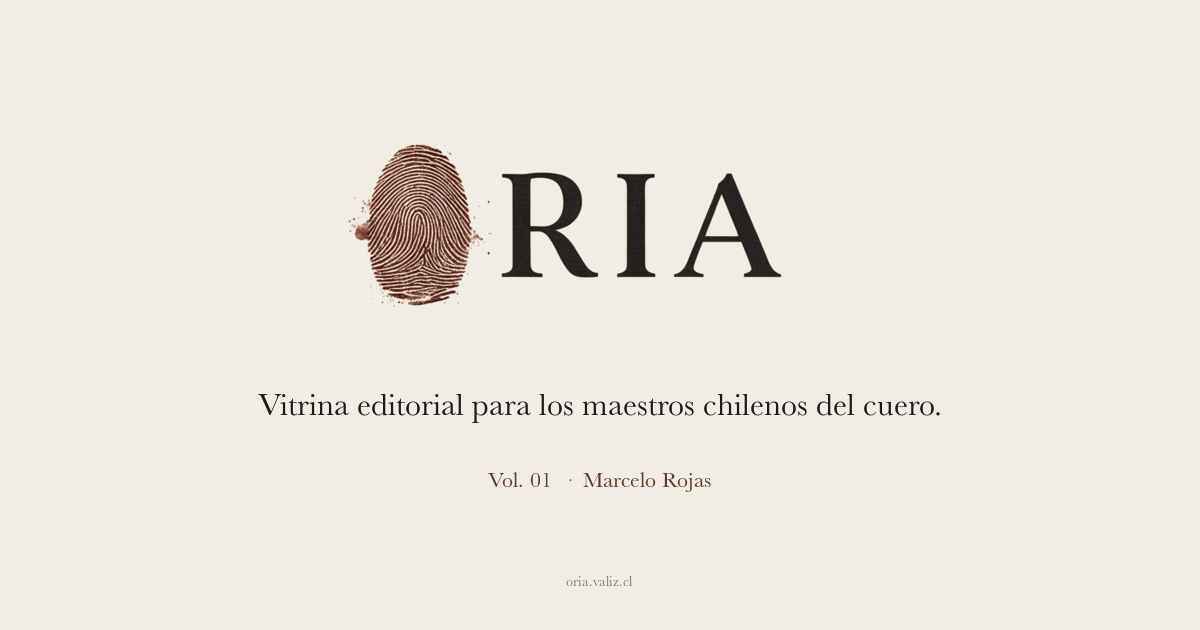
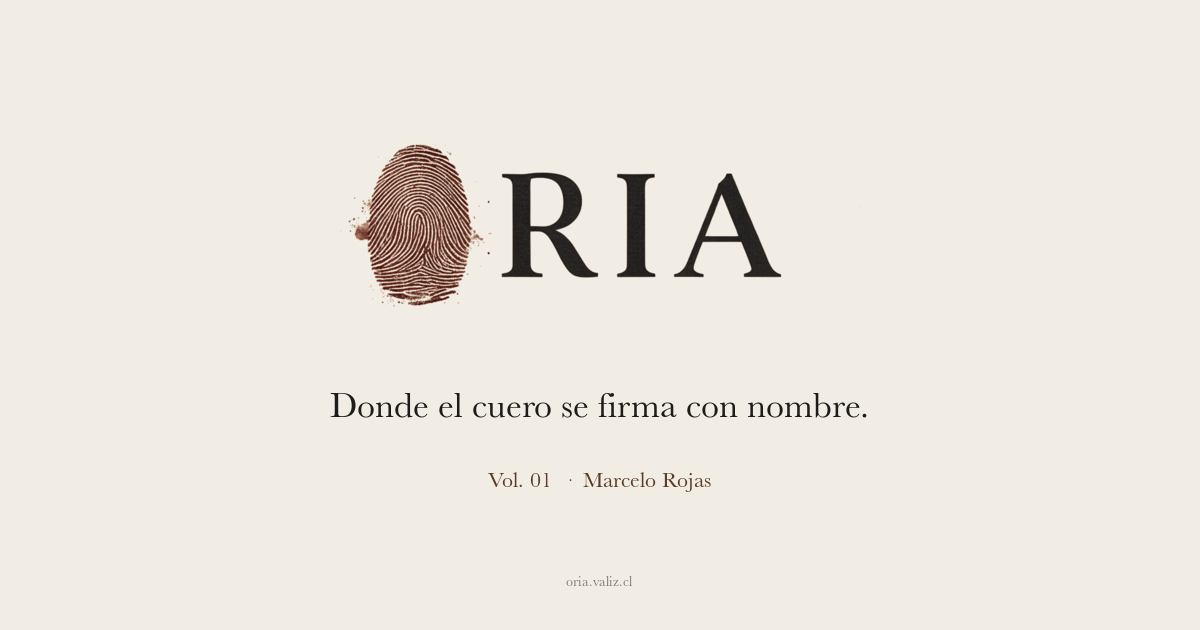
meta: nuevo title/description editorial-poético
Reemplaza 'Vitrina editorial para maestros chilenos del cuero' por
'Donde el cuero se firma con nombre' en todos los metadatos: title del
navegador, description, OG y Twitter cards.

- app/layout.tsx: actualiza metadata.title, description, openGraph y
  twitter con el nuevo copy V3.
- public/og.png: regenerada con ImageMagick + Baskerville. Logo ORIA
  centrado + headline 'Donde el cuero se firma con nombre.' + Vol. 01 ·
  Marcelo Rojas en sepia + dominio al pie.

Descripción única en todos lados: 'Carteras, mochilas y accesorios
hechos a mano por maestros chilenos. Una pieza, un autor.'

Changed region(s): [[0.2158, 0.6333, 0.7708, 0.6635]]

diff --git a/app/layout.tsx b/app/layout.tsx
@@ -23,15 +23,15 @@ const SITE_URL = "https://oria.valiz.cl";
 export const metadata: Metadata = {
   metadataBase: new URL(SITE_URL),
   title: {
-    default: "ORIA — Vitrina editorial para maestros chilenos del cuero",
+    default: "ORIA — Donde el cuero se firma con nombre",
     template: "%s · ORIA",
   },
   description:
-    "ORIA es un sello editorial que cada estación elige a un maestro chileno del cuero y le da vitrina, branding y alcance. Vol. 01: Marcelo Rojas.",
+    "Carteras, mochilas y accesorios hechos a mano por maestros chilenos. Una pieza, un autor.",
   openGraph: {
-    title: "ORIA — Vitrina editorial para los maestros chilenos del cuero",
+    title: "ORIA — Donde el cuero se firma con nombre",
     description:
-      "Cada estación elegimos a un autor y le damos vitrina, branding y alcance. La obra es siempre del autor. Vol. 01: Marcelo Rojas.",
+      "Carteras, mochilas y accesorios hechos a mano por maestros chilenos. Una pieza, un autor.",
     locale: "es_CL",
     type: "website",
     siteName: "ORIA",
@@ -41,16 +41,16 @@ export const metadata: Metadata = {
         url: "/og.png",
         width: 1200,
         height: 630,
-        alt: "ORIA — Vol. 01 · Marcelo Rojas",
+        alt: "ORIA — Donde el cuero se firma con nombre",
         type: "image/png",
       },
     ],
   },
   twitter: {
     card: "summary_large_image",
-    title: "ORIA — Vitrina editorial para los maestros chilenos del cuero",
+    title: "ORIA — Donde el cuero se firma con nombre",
     description:
-      "Cada estación, un autor. La obra es siempre del autor. Vol. 01: Marcelo Rojas.",
+      "Carteras, mochilas y accesorios hechos a mano por maestros chilenos. Una pieza, un autor.",
     images: ["/og.png"],
   },
 };
